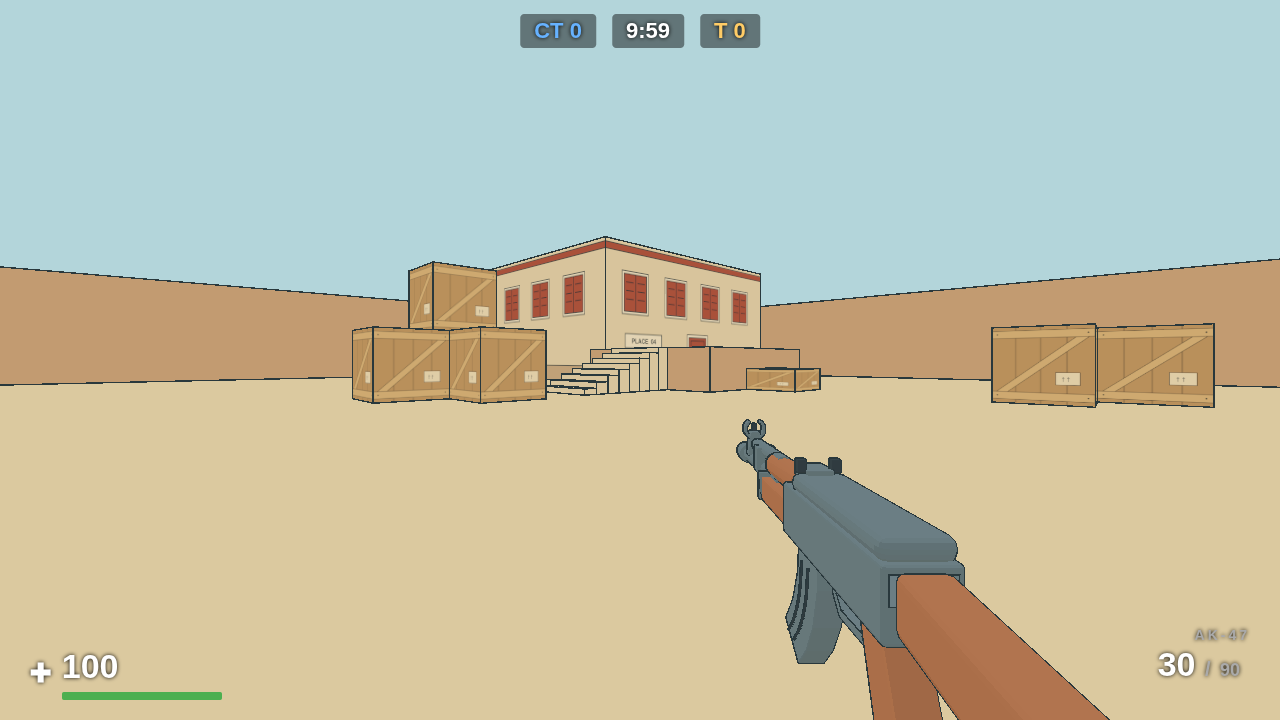
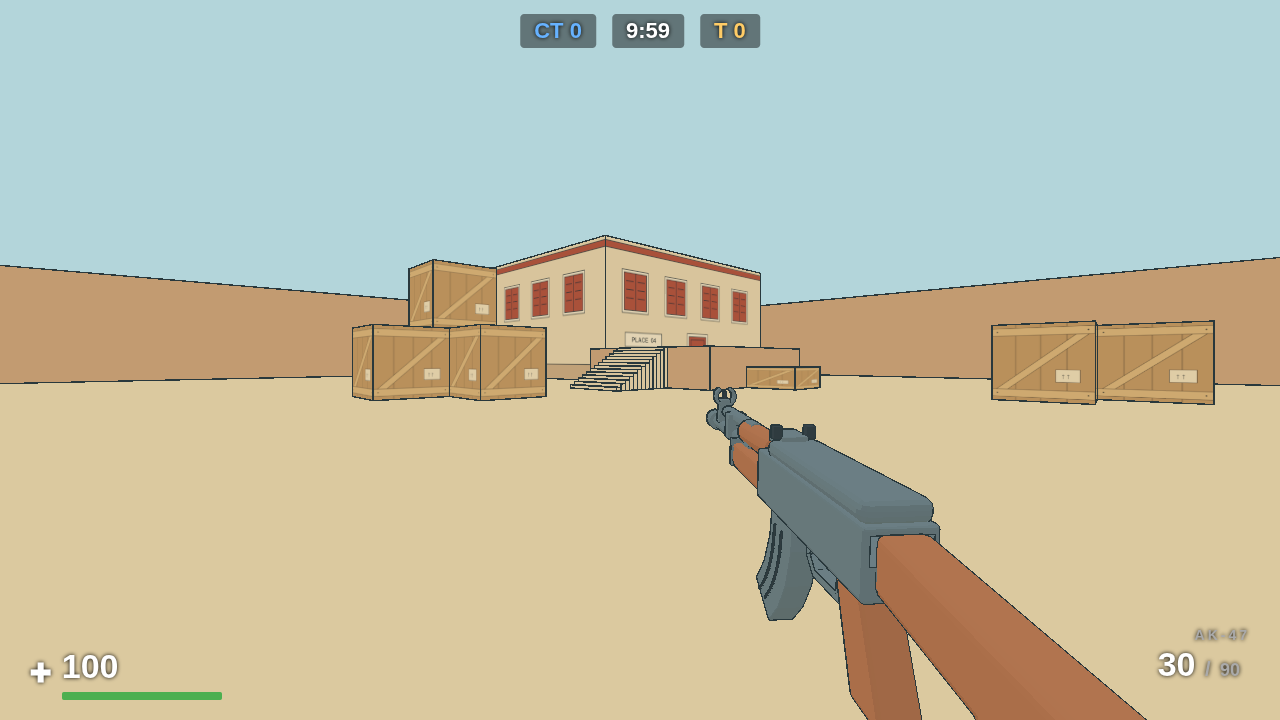
Hold every firearm viewmodel by one rule: grip on a shared hand point, bore canted onto the crosshair 3 m out
Replaces the per-weapon hip offsets and depths, which perspective turned
into unrelated angles and sizes. sim/viewmodelHold.ts solves the cant;
poseWeapon unwinds it about the hand as the sights come up, so full ADS is
the straight pose aimOffset was computed against. Long guns shoulder with
the butt on the eye plane, handguns at 0.44 m. viewmodel-shots.mjs now
covers all eight weapons and waits out the draw delay; doc captures
refreshed.

Claude-Session: https://claude.ai/code/session_01UBRpYZoy1oHdxivLJ4z8qF

diff --git a/src/core/weaponModels.ts b/src/core/weaponModels.ts
@@ -3,7 +3,11 @@
 import * as THREE from 'three';
 import { createCelMaterial } from './materials';
 import type { WeaponId } from './state';
-import { createAuthoredWeaponRig, type AuthoredWeaponRig, type WeaponAssets } from './weaponAssets';
+import { hipHold } from '../sim/viewmodelHold';
+import { attachmentPoint, createAuthoredWeaponRig, type AuthoredWeaponRig, type WeaponAssets } from './weaponAssets';
+
+/** A body pose: camera-space position of the model origin, and its rotation. */
+interface BodyPose { position: THREE.Vector3; quaternion: THREE.Quaternion }
 
 export interface WeaponViewModel {
   authored: AuthoredWeaponRig;
@@ -11,7 +15,33 @@ export interface WeaponViewModel {
   body: THREE.Group;
   mechanisms: Partial<Record<'hinge' | 'shellLeft' | 'shellRight' | 'magazine' | 'pump' | 'cylinder' | 'rotor' | 'hammer' | 'bolt' | 'slide' | 'shell', THREE.Object3D>>;
   rest: Map<THREE.Object3D, { position: THREE.Vector3; rotation: THREE.Euler }>;
+  /**
+   * Body pose at the hip and just before ADS; weaponPresentation.ts:poseWeapon
+   * blends between them by ads. The aim pose is straight, so aimOffset alone
+   * then puts the sight line on the view axis.
+   */
+  hold: { hip: BodyPose; aim: BodyPose };
   aimOffset: { x: number; y: number; z: number };
+}
+
+/**
+ * Where every firearm's grip sits at the hip, camera space (m): low right,
+ * where the hand is. One point for all of them, so each shows at its real size.
+ */
+const HIP_GRIP = { x: 0.22, y: -0.26, z: -0.44 };
+/**
+ * Hip bores cross the crosshair this far out (m). Far enough that the cant is a
+ * few degrees — a long gun still reads as held forward — and the same for every
+ * weapon, so none of them points somewhere the others do not.
+ */
+const HIP_CONVERGENCE = 3;
+/** Handgun sight-line origin distance at full ADS (m), arms extended. */
+const HANDGUN_ADS_DEPTH = 0.44;
+const SHOULDERED: ReadonlySet<WeaponId> = new Set(['smg', 'ak47', 'sniper', 'shotgun']);
+
+function required(node: THREE.Object3D | undefined, id: WeaponId): THREE.Object3D {
+  if (!node) throw new Error(`Viewmodel: ${id} has no muzzle to hold by`);
+  return node;
 }
 
 /** Build a fresh model; caller owns it for the page's lifetime. */
@@ -19,28 +49,48 @@ export function createWeaponViewModel(id: WeaponId, weaponAssets: WeaponAssets):
   const group = new THREE.Group();
   group.name = `viewmodel-${id}`;
   const body = new THREE.Group();
-  const offset = id === 'sniper' ? { x: 0.26, y: 0.12 }
-    : id === 'shotgun' ? { x: 0.20, y: 0.105 }
-      : (id === 'smg' || id === 'ak47') ? { x: 0.25, y: 0.14 } : { x: 0.24, y: 0.15 };
-  // Authored sight height above the model origin; scaled with each model to
-  // real size (scripts/assets/real-size.py).
-  const sightLine = id === 'pistol' ? -0.0028 : id === 'revolver' ? 0.03145 : id === 'shotgun' ? .03128 : id === 'sawnOff' ? .0064 : 0;
-  body.position.set(offset.x, -offset.y, id === 'pistol' || id === 'revolver' || id === 'sawnOff' ? -0.50 : id === 'shotgun' ? -.46 : -0.57);
-  // Held parallel to the view axis, the knife showed its pommel end-on and
-  // read as a pencil aimed at the horizon. A forward grip instead: the handle
-  // rises from below the frame's lower-right edge, where the hand would be, and
-  // the blade is tipped up and in to aim at the crosshair ~1.5 m out, inside
-  // melee reach (issue #143). Yaw/pitch are derived from that aim point, so a
-  // position change must re-derive them.
-  if (id === 'knife') {
-    body.position.set(0.25, -0.27, -0.46);
-    body.rotation.set(0.278, 0.228, -0.25, 'YXZ');
-  }
+  body.rotation.order = 'YXZ';
   group.add(body);
   const authored = createAuthoredWeaponRig(id, weaponAssets[id]);
   // Measured while the root is still unparented, so the box is in model space.
   const butt = new THREE.Box3().setFromObject(authored.root).max.z;
   body.add(authored.root);
+  // Authored sight height above the model origin; scaled with each model to
+  // real size (scripts/assets/real-size.py).
+  const sightLine = id === 'pistol' ? -0.0028 : id === 'revolver' ? 0.03145 : id === 'shotgun' ? .03128 : id === 'sawnOff' ? .0064 : 0;
+  let hold: WeaponViewModel['hold'];
+  let aimOffset: WeaponViewModel['aimOffset'];
+  if (id === 'knife') {
+    // Held parallel to the view axis, the knife showed its pommel end-on and
+    // read as a pencil aimed at the horizon. A forward grip instead: the handle
+    // rises from below the frame's lower-right edge, where the hand would be, and
+    // the blade is tipped up and in to aim at the crosshair ~1.5 m out, inside
+    // melee reach (issue #143). Yaw/pitch are derived from that aim point, so a
+    // position change must re-derive them. It never aims, so both poses match.
+    const pose = { position: new THREE.Vector3(0.25, -0.27, -0.46),
+      quaternion: new THREE.Quaternion().setFromEuler(new THREE.Euler(0.278, 0.228, -0.25, 'YXZ')) };
+    hold = { hip: pose, aim: pose };
+    aimOffset = { x: 0, y: 0, z: 0 };
+  } else {
+    authored.root.updateMatrixWorld(true);
+    const grip = attachmentPoint(authored.grip, authored.root);
+    const muzzle = attachmentPoint(required(authored.muzzle, id), authored.root);
+    const hip = hipHold(grip, muzzle, HIP_GRIP, HIP_CONVERGENCE);
+    // Straight, with the grip still on the hand point: ADS unwinds the cant
+    // about the hand rather than swinging the gun about the eye.
+    const aim = new THREE.Vector3(HIP_GRIP.x - grip.x, HIP_GRIP.y - grip.y, HIP_GRIP.z - grip.z);
+    // Shouldered, the butt ends on the eye plane — a cheek weld — so the
+    // stock runs out of view below the eye instead of standing in the frame.
+    const depth = SHOULDERED.has(id) ? butt : HANDGUN_ADS_DEPTH;
+    hold = {
+      hip: { position: new THREE.Vector3(hip.position.x, hip.position.y, hip.position.z),
+        quaternion: new THREE.Quaternion().setFromEuler(new THREE.Euler(hip.pitch, hip.yaw, 0, 'YXZ')) },
+      aim: { position: aim, quaternion: new THREE.Quaternion() },
+    };
+    aimOffset = { x: -aim.x, y: -sightLine - aim.y, z: -depth - aim.z };
+  }
+  body.position.copy(hold.hip.position);
+  body.quaternion.copy(hold.hip.quaternion);
   const mechanisms: WeaponViewModel['mechanisms'] = { ...authored.mechanisms };
   // Loose reload cartridges remain lightweight effects, separate from weapon
   // assets, sized to the real-sized chambers they feed.
@@ -78,10 +128,5 @@ export function createWeaponViewModel(id: WeaponId, weaponAssets: WeaponAssets):
     node.name = `weapon-mechanism-${key}`;
     rest.set(node, { position: node.position.clone(), rotation: node.rotation.clone() });
   }
-  return { authored, group, body, mechanisms, rest,
-    // Shouldered, the butt ends on the eye plane (a cheek weld), so the stock
-    // runs out of view below the eye; the real-sized SMG's stock is too short
-    // to clear the frame any further forward.
-    aimOffset: { x: -offset.x, y: offset.y - sightLine,
-      z: (id === 'smg' || id === 'ak47') ? 0.57 - butt : 0.06 } };
+  return { authored, group, body, mechanisms, rest, hold, aimOffset };
 }

diff --git a/src/sim/viewmodelHold.ts b/src/sim/viewmodelHold.ts
@@ -1,0 +1,54 @@
+// sim/viewmodelHold.ts — the hip hold every firearm viewmodel shares.
+//
+// Pure: every input is a parameter (see sim/accuracy.ts). One rule instead of a
+// hand-tuned offset per weapon: the grip sits at the same hand point, and the
+// bore is turned to cross the crosshair a fixed distance out — the rule the
+// knife's hold was derived from (weaponModels.ts, issue #143). Each weapon then
+// shows at its real size and the same inward cant, instead of a long gun and a
+// pistol at unrelated depths that perspective turns into unrelated angles.
+
+export interface Vec3 { x: number; y: number; z: number }
+
+export interface HipHold {
+  /** Camera-space position of the model origin. */
+  position: Vec3;
+  /** Euler angles, order 'YXZ' (yaw, then pitch); no roll. */
+  yaw: number;
+  pitch: number;
+}
+
+/**
+ * Rotate `v` by yaw about Y after pitch about X — three.js Euler order 'YXZ'.
+ */
+export function rotateYawPitch(v: Vec3, yaw: number, pitch: number): Vec3 {
+  const cp = Math.cos(pitch), sp = Math.sin(pitch);
+  const y = v.y * cp - v.z * sp;
+  const z1 = v.y * sp + v.z * cp;
+  const cy = Math.cos(yaw), sy = Math.sin(yaw);
+  return { x: v.x * cy + z1 * sy, y, z: -v.x * sy + z1 * cy };
+}
+
+/**
+ * Seat `grip` (model space) on `anchor` (camera space) and turn the bore — the
+ * line through `muzzle` along model -z — onto the view axis at `convergence`
+ * metres ahead of the eye.
+ *
+ * The muzzle's camera position depends on the rotation being solved for, so
+ * this iterates; the correction shrinks by the muzzle-to-target over
+ * grip-to-target ratio each pass, and eight passes settle every weapon here to
+ * well under a microradian.
+ */
+export function hipHold(grip: Vec3, muzzle: Vec3, anchor: Vec3, convergence: number): HipHold {
+  let yaw = 0, pitch = 0;
+  const arm = { x: muzzle.x - grip.x, y: muzzle.y - grip.y, z: muzzle.z - grip.z };
+  for (let i = 0; i < 8; i++) {
+    const r = rotateYawPitch(arm, yaw, pitch);
+    const dx = -(anchor.x + r.x), dy = -(anchor.y + r.y), dz = -convergence - (anchor.z + r.z);
+    const length = Math.hypot(dx, dy, dz);
+    // Bore direction (0,0,-1) under 'YXZ' is (-sin(yaw)cos(pitch), sin(pitch), -cos(yaw)cos(pitch)).
+    pitch = Math.asin(dy / length);
+    yaw = Math.atan2(-dx, -dz);
+  }
+  const g = rotateYawPitch(grip, yaw, pitch);
+  return { position: { x: anchor.x - g.x, y: anchor.y - g.y, z: anchor.z - g.z }, yaw, pitch };
+}

diff --git a/src/sim/viewmodelHold.test.ts b/src/sim/viewmodelHold.test.ts
@@ -1,0 +1,44 @@
+import { describe, expect, test } from 'vitest';
+import { Euler, Vector3 } from 'three';
+import { hipHold, rotateYawPitch } from './viewmodelHold';
+
+const anchor = { x: 0.22, y: -0.26, z: -0.44 };
+// A rifle and a pistol, grip and muzzle markers in model space (m).
+const weapons = {
+  rifle: { grip: { x: 0, y: -0.136, z: 0.108 }, muzzle: { x: 0, y: -0.044, z: -0.346 } },
+  pistol: { grip: { x: 0, y: -0.112, z: 0.069 }, muzzle: { x: 0, y: -0.031, z: -0.107 } },
+};
+
+describe('hipHold', () => {
+  test('rotateYawPitch matches a three.js YXZ Euler', () => {
+    const v = { x: 0.1, y: -0.2, z: -0.7 };
+    const r = rotateYawPitch(v, 0.3, -0.2);
+    const expected = new Vector3(v.x, v.y, v.z).applyEuler(new Euler(-0.2, 0.3, 0, 'YXZ'));
+    expect(r.x).toBeCloseTo(expected.x, 12);
+    expect(r.y).toBeCloseTo(expected.y, 12);
+    expect(r.z).toBeCloseTo(expected.z, 12);
+  });
+
+  for (const [name, { grip, muzzle }] of Object.entries(weapons)) {
+    test(`${name}: grip lands on the anchor and the bore crosses the axis at the convergence`, () => {
+      const hold = hipHold(grip, muzzle, anchor, 3);
+      const place = (p: typeof grip) => {
+        const r = rotateYawPitch(p, hold.yaw, hold.pitch);
+        return { x: hold.position.x + r.x, y: hold.position.y + r.y, z: hold.position.z + r.z };
+      };
+      const g = place(grip);
+      expect(g.x).toBeCloseTo(anchor.x, 12);
+      expect(g.y).toBeCloseTo(anchor.y, 12);
+      expect(g.z).toBeCloseTo(anchor.z, 12);
+      // Follow the bore from the muzzle to the plane z = -3.
+      const m = place(muzzle);
+      const d = rotateYawPitch({ x: 0, y: 0, z: -1 }, hold.yaw, hold.pitch);
+      const t = (-3 - m.z) / d.z;
+      expect(Math.abs(m.x + d.x * t)).toBeLessThan(1e-6);
+      expect(Math.abs(m.y + d.y * t)).toBeLessThan(1e-6);
+      // Right of and below the axis, it turns in (left) and up.
+      expect(hold.yaw).toBeGreaterThan(0);
+      expect(hold.pitch).toBeGreaterThan(0);
+    });
+  }
+});

diff --git a/src/sim/viewmodelTransform.test.ts b/src/sim/viewmodelTransform.test.ts
@@ -3,13 +3,13 @@ import { viewmodelTransform, type ViewmodelInput } from './viewmodelTransform';
 import { viewmodelRecoil } from './recoil';
 import { WEAPONS, RECOIL_CAP, RECOIL_YAW_CAP } from '../core/state';
 
-// The smg's real hip -> ADS delta: core/weaponModels.ts builds it as
-// { x: -offset.x, y: offset.y - sightLine } with z=0.10, from offset (0.25, 0.14) and a zero
-// sight line. now = 10 lands the bob mid-swing; the last case below pins that,
+// The smg's real hip -> ADS delta, rounded: core/weaponModels.ts takes it from
+// the straight hold with the grip on HIP_GRIP to the sight line on the axis
+// with the butt at the eye, and the smg's sight line is zero. now = 10 lands the bob mid-swing; the last case below pins that,
 // because a phase on a zero of Math.sin(now * 10) would make the ADS assertions
 // pass against the ungated code too.
 const still: ViewmodelInput = {
-  aimOffset: { x: -0.25, y: 0.14, z: 0.10 },
+  aimOffset: { x: -0.22, y: 0.124, z: 0.215 },
   ads: 0, visualRecoil: 0, recoilYaw: 0, bobAmt: 0, now: 10,
 };
 
@@ -22,8 +22,8 @@ const moving = {
   recoilYaw: 1.5,
 };
 
-/** Roughly where an iron sight sits down the view axis (weaponModels body.z). */
-const SIGHT_M = 0.53;
+/** Roughly where an iron sight sits down the view axis (the smg's front post at ADS). */
+const SIGHT_M = 0.54;
 const deg = (rad: number) => rad * 180 / Math.PI;
 
 describe('viewmodelTransform', () => {

diff --git a/src/core/weaponPresentation.ts b/src/core/weaponPresentation.ts
@@ -25,8 +25,12 @@ export function poseWeapon(vm: WeaponViewModel, id: WeaponId, pose: WeaponPose,
     node.position.copy(rest.position);
     node.rotation.copy(rest.rotation);
   }
-  const { mechanisms: m, group } = vm;
+  const { mechanisms: m, group, body, hold } = vm;
   const travel = vm.authored.actionTravel;
+  // The hip cant unwinds as the sights come up; at ads = 1 the body is exactly
+  // the straight aim pose that aimOffset was computed against.
+  body.position.lerpVectors(hold.hip.position, hold.aim.position, ads);
+  body.quaternion.slerpQuaternions(hold.hip.quaternion, hold.aim.quaternion, ads);
   const quiet = (1 - ads) * (1 - pose.reload);
   // Reloading tilts the weapon to the right and dips it slightly; it does not
   // travel. The z push-back and the per-weapon reload yaw that used to live here

diff --git a/docs/assets.md b/docs/assets.md
@@ -76,6 +76,18 @@ stroke in `weaponAssets.ts:ACTION_TRAVEL`, and the shell paths in the
 shotgun, revolver and sawn-off presentations. `weaponRig.test.mjs` pins every
 weapon's length to its real range.
 
+## First-person hold
+
+Every firearm viewmodel is placed by one rule rather than per-weapon offsets
+(`weaponModels.ts`, solved by `sim/viewmodelHold.ts:hipHold`). At the hip its
+`grip_right` marker sits on one shared hand point, and the bore is turned to
+cross the crosshair 3 m out, so each weapon shows at its real size with the
+same inward cant. Aiming unwinds that cant about the hand, then puts the sight
+line on the view axis. Long guns are shouldered with the butt on the eye plane,
+and handguns sit with their origin 0.44 m out. The knife keeps its own
+hand-derived hold (issue #143). `scripts/viewmodel-shots.mjs` captures hip,
+ADS and reload views of all eight weapons for comparison.
+
 ## Optional live connection
 
 Tested: Blender 5.2.0 LTS, blender-mcp 1.9.1, add-on protocol 5.
